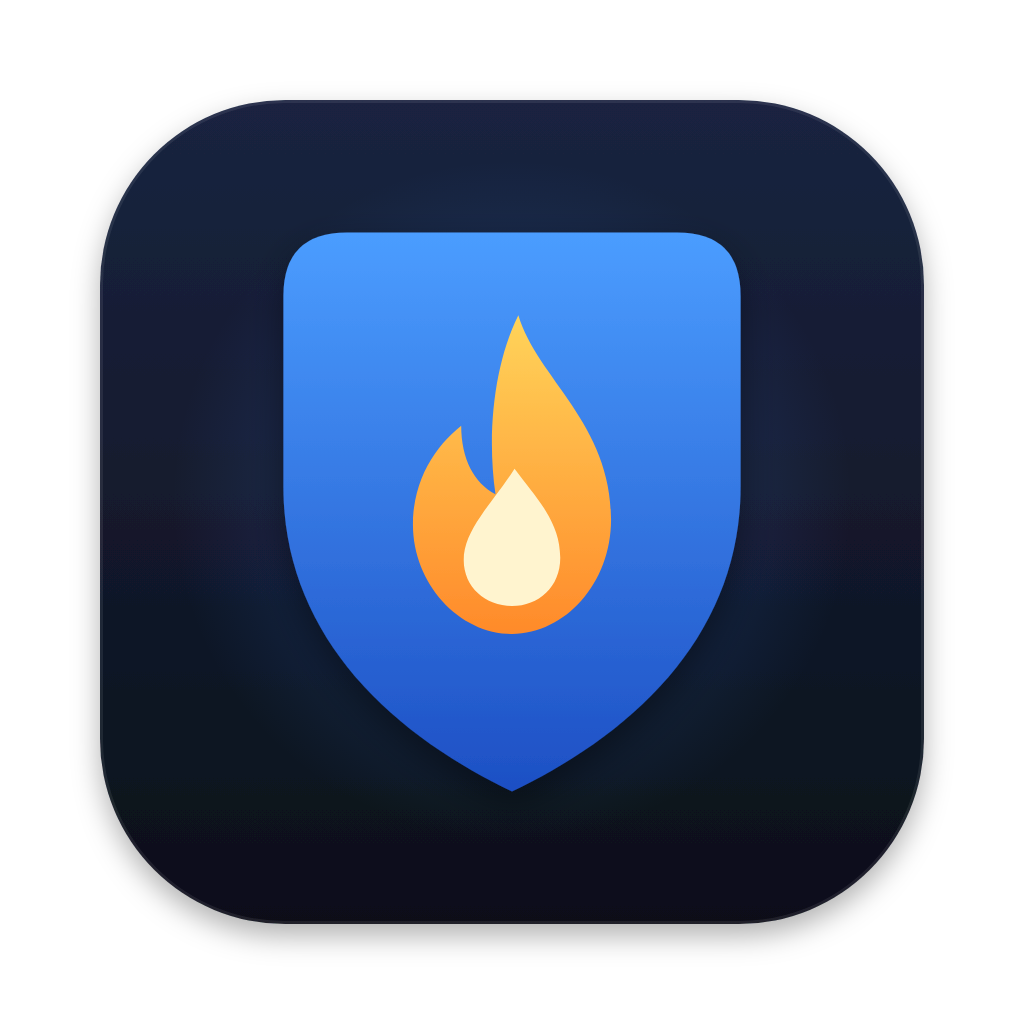
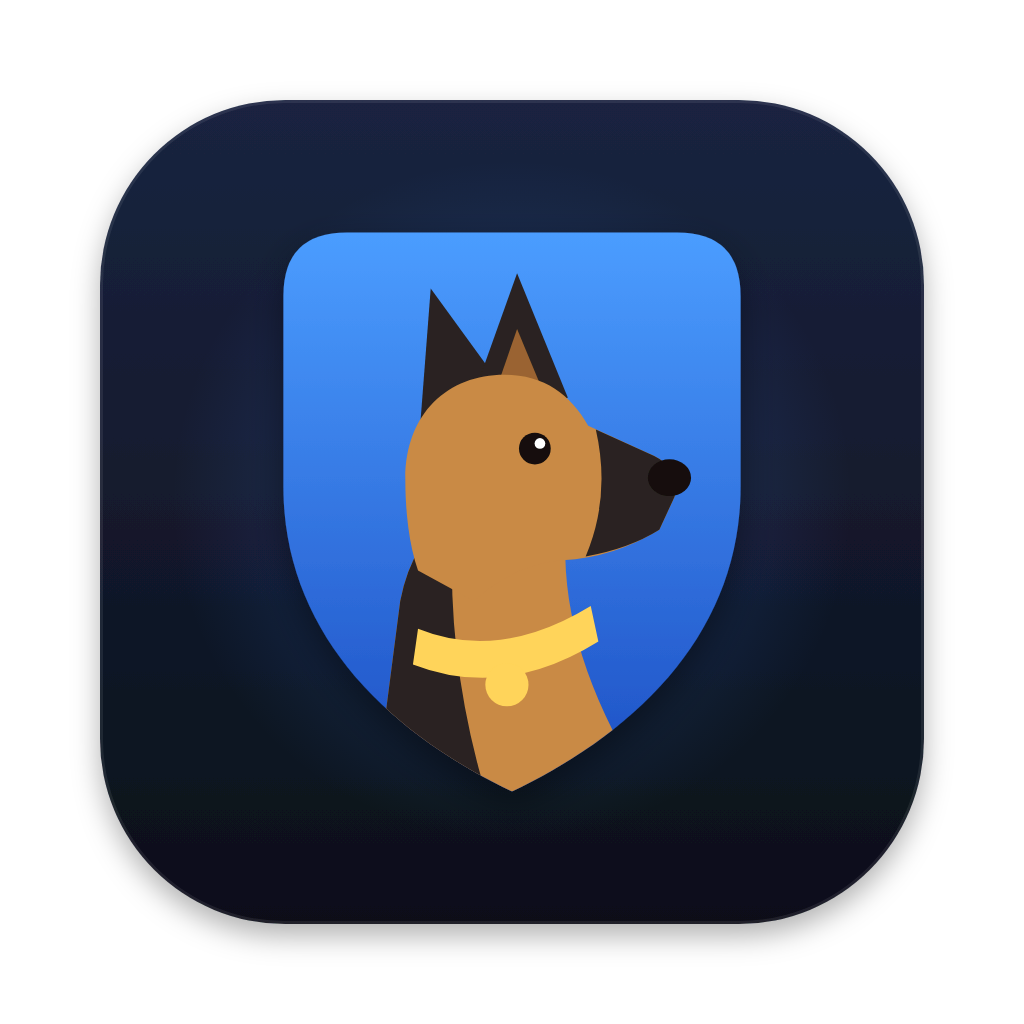
New mark: Scout on a shield
Replaces the flame with Scout, the dog pack's German shepherd, in profile
on the same blue shield, in the pack's colours with a gold collar. Updates
the app icon, the in-app mark, the macOS menu-bar icon and the Linux tray
icons (which now match the macOS shape), and teaches render-icons.mjs to
render the Linux tray PNGs too. The alert icons keep their shape.

Claude-Session: https://claude.ai/code/session_016vp5mrVZtfzSSXv8742V7S

Changed region(s): [[0.375, 0.2812, 0.6875, 0.7812]]

diff --git a/apps/desktop/src/renderer/src/components/Shield.tsx b/apps/desktop/src/renderer/src/components/Shield.tsx
@@ -1,14 +1,25 @@
 import { useId } from 'react';
 
-// The Vigil mark: a shield holding a vigil flame. Same drawing as resources/shield.svg.
+// The Vigil mark: Scout, the pack's German shepherd, keeping watch on a shield.
+// Same drawing as resources/shield.svg, in the pack's colours (components/Dog.tsx).
 const SHIELD = 'M7 2H33Q38 2 38 7V22C38 33 30.5 41 20 46C9.5 41 2 33 2 22V7Q2 2 7 2Z';
-const FLAME =
-  'M20.5 8.5C22 13.5 27.8 17 27.8 24.6C27.8 29.6 24.2 33.6 20 33.6C15.8 33.6 12.2 29.6 12.2 25C12.2 21.4 14 18.8 16 17.2C16 19.8 17 21.7 18.7 22.6C18 17.8 18.6 12.3 20.5 8.5Z';
-const CORE =
-  'M20.2 20.6C22 23 23.8 24.8 23.8 27.6C23.8 29.9 22.1 31.4 20 31.4C17.9 31.4 16.2 29.9 16.2 27.8C16.2 25.4 18.4 23.4 20.2 20.6Z';
+const NECK = 'M9 48L11.2 31Q12.2 26 15.4 24.4L24.2 27.6Q24.4 37 32 48Z';
+const SADDLE = 'M9 48L11.2 31Q12.2 26 15.4 24.4Q14.6 36 18.5 48Z';
+const COLLAR = 'M12.6 33.2Q19 35.8 26.2 31.4L26.8 34.2Q19.4 38.8 12.2 36Z';
+const EAR_BACK = 'M12.6 19.4L13.6 6.4L20 15.2Z';
+const EAR = 'M16.4 16.4L20.4 5.2L24.4 15Z';
+const EAR_INNER = 'M18.6 14.8L20.4 9.6L22.4 14.4Z';
+const HEAD =
+  'M11.6 21.4C11.6 16.2 15 13.2 19.4 13.2C22.6 13.2 24.6 14.8 26 17.2L31.2 19.6Q33.2 20.6 32.8 22.8L31.6 25.4Q28 27.6 24 27.8C21 28 18.6 29.6 17 31L12.6 28.6C11.9 26.6 11.6 24 11.6 21.4Z';
+const MUZZLE =
+  'M26.6 17.5L31.2 19.6Q33.2 20.6 32.8 22.8L31.6 25.4Q29.2 26.9 25.8 27.5Q27.8 22.8 26.6 17.5Z';
+
+const COAT = '#c98a45';
+const DARK = '#2a2320';
+const INK = '#120e0d';
 
 export function Shield({ height = 22 }: { height?: number }) {
-  // Gradient ids must be unique per page, and the mark can appear more than once.
+  // Gradient and clip ids must be unique per page, and the mark can appear more than once.
   const id = useId();
   return (
     <svg width={(height * 40) / 48} height={height} viewBox="0 0 40 48" aria-hidden="true">
@@ -17,14 +28,25 @@ export function Shield({ height = 22 }: { height?: number }) {
           <stop offset="0" stopColor="#4b9dff" />
           <stop offset="1" stopColor="#1d4fc4" />
         </linearGradient>
-        <linearGradient id={`${id}-flame`} x1="0" y1="0" x2="0" y2="1">
-          <stop offset="0" stopColor="#ffd45a" />
-          <stop offset="1" stopColor="#ff8a2a" />
-        </linearGradient>
+        <clipPath id={`${id}-inside`}>
+          <path d={SHIELD} />
+        </clipPath>
       </defs>
       <path d={SHIELD} fill={`url(#${id}-body)`} />
-      <path d={FLAME} fill={`url(#${id}-flame)`} />
-      <path d={CORE} fill="#fff4cf" />
+      <g clipPath={`url(#${id}-inside)`}>
+        <path d={NECK} fill={COAT} />
+        <path d={SADDLE} fill={DARK} />
+        <path d={COLLAR} fill="#ffd45a" />
+        <circle cx="19.6" cy="37.6" r="1.7" fill="#ffd45a" />
+      </g>
+      <path d={EAR_BACK} fill={DARK} />
+      <path d={EAR} fill={DARK} />
+      <path d={EAR_INNER} fill="#9a6430" />
+      <path d={HEAD} fill={COAT} />
+      <path d={MUZZLE} fill={DARK} />
+      <ellipse cx="32.4" cy="21.3" rx="1.7" ry="1.45" fill={INK} />
+      <circle cx="21.8" cy="19" r="1.25" fill={INK} />
+      <circle cx="22.2" cy="18.6" r="0.42" fill="#fff" />
     </svg>
   );
 }
